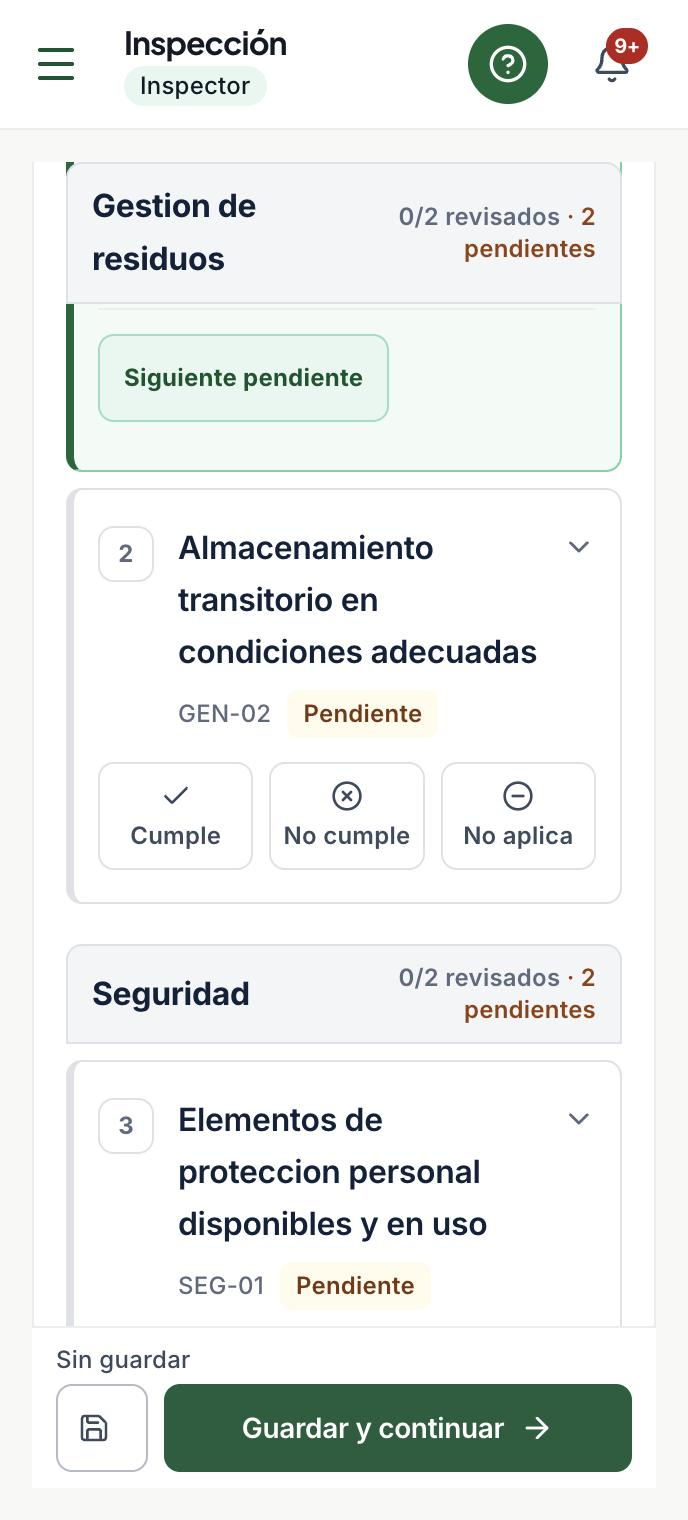
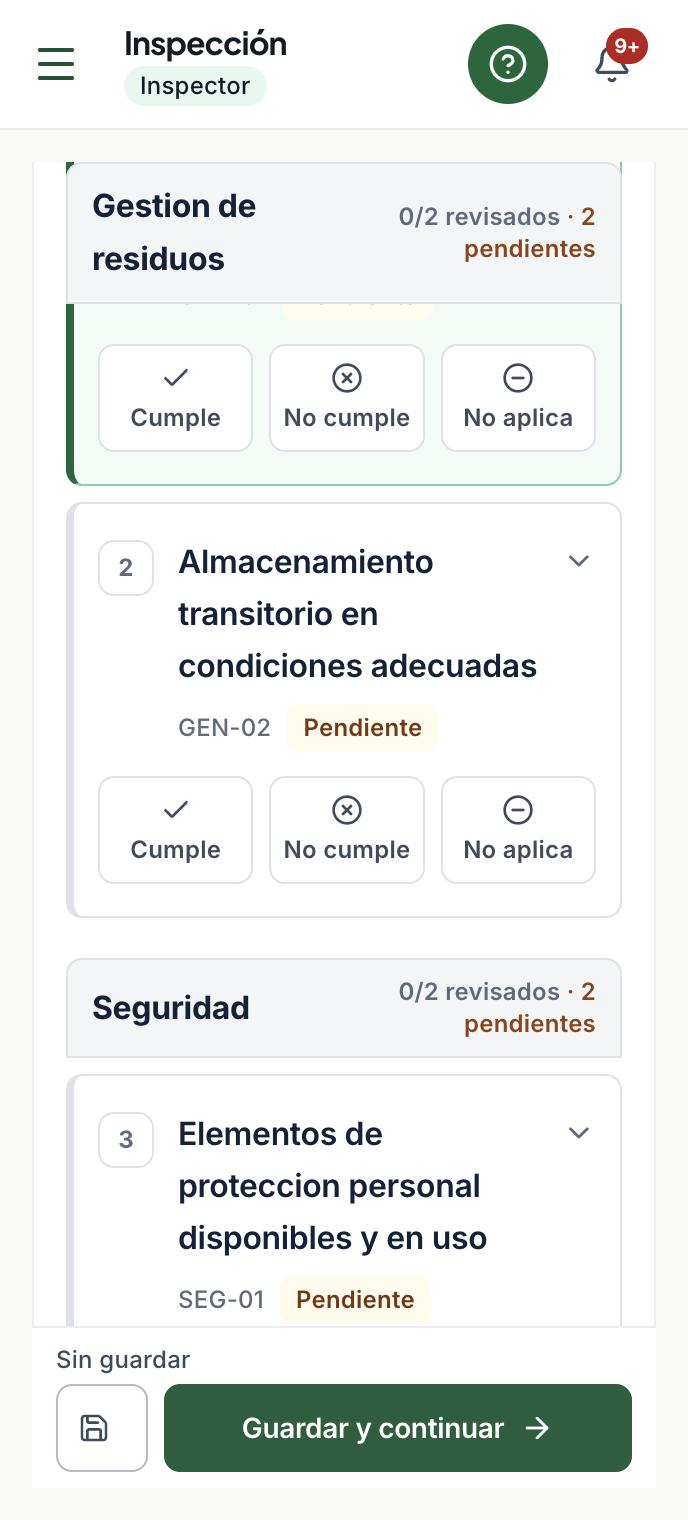
docs(inspections): final checklist capture and commit provenance note [skip ci]

diff --git a/docs/INSPECCION-SIMPLIFICACION-344-20261103.md b/docs/INSPECCION-SIMPLIFICACION-344-20261103.md
@@ -59,6 +59,8 @@ El usuario eligió la opción 1. Implementado en `379d9323` y el ajuste de despl
 - **Quitados:** el botón «Ver los 11 controles / Volver al control actual» y el enlace «Volver al índice de controles» de cada tarjeta. Se conserva «Siguiente pendiente», el buscador «Ir a un control» y, en pantallas anchas, «Ir al siguiente pendiente (n)».
 - **Enlaces profundos y reanudación** (`#checklist/DOC-01`, «Retomá en…») siguen funcionando: al llegar a una tarea distinta de la primera, la pantalla baja hasta su encabezado.
 - Prueba adaptada: el caso «cierra el control enfocado y conserva la observación al reabrir» ahora describe la lista plana (sin el botón que dejó de existir).
+- Commits: `379d9323` (lista continua), `dc54ad03` (bajar hasta la tarea enlazada), `4dd9c565` (sin bloque vacío en tarjetas pendientes). Verificado en el preview a 344 px: al abrir `#checklist` o `#declaracion` el encabezado queda bajo la barra de la app; 11 tarjetas visibles con sus respuestas; sin desborde horizontal. En web (1365 px) la misma lista continua no se revisó visualmente en este corte.
+- Nota de procedencia: la sesión paralela que trabaja Inicio y lista amendó por error el commit `aa7ce512` (quedó como `dc54ad03`) agregándole dos líneas de su propio registro; el código es el mismo. Se le pidió no volver a hacerlo.
 
 ## Pruebas
 
